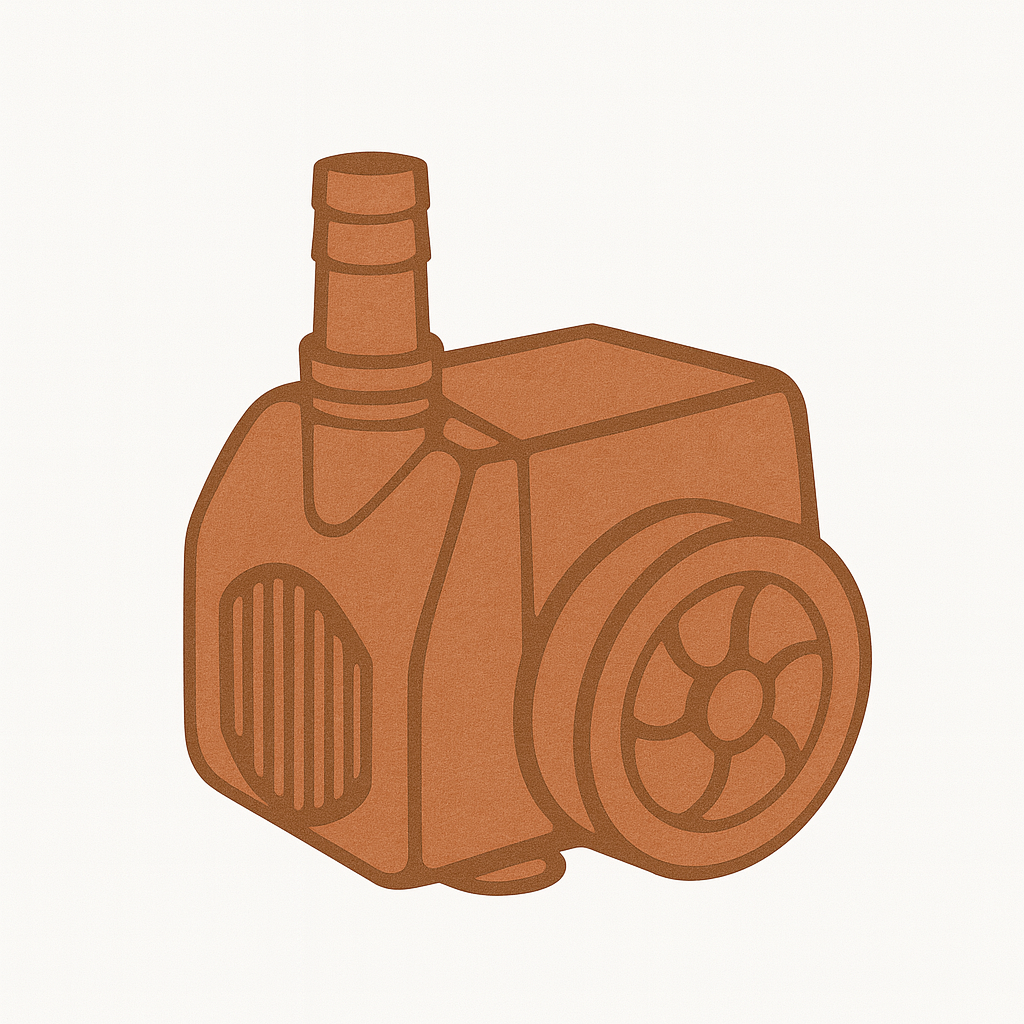
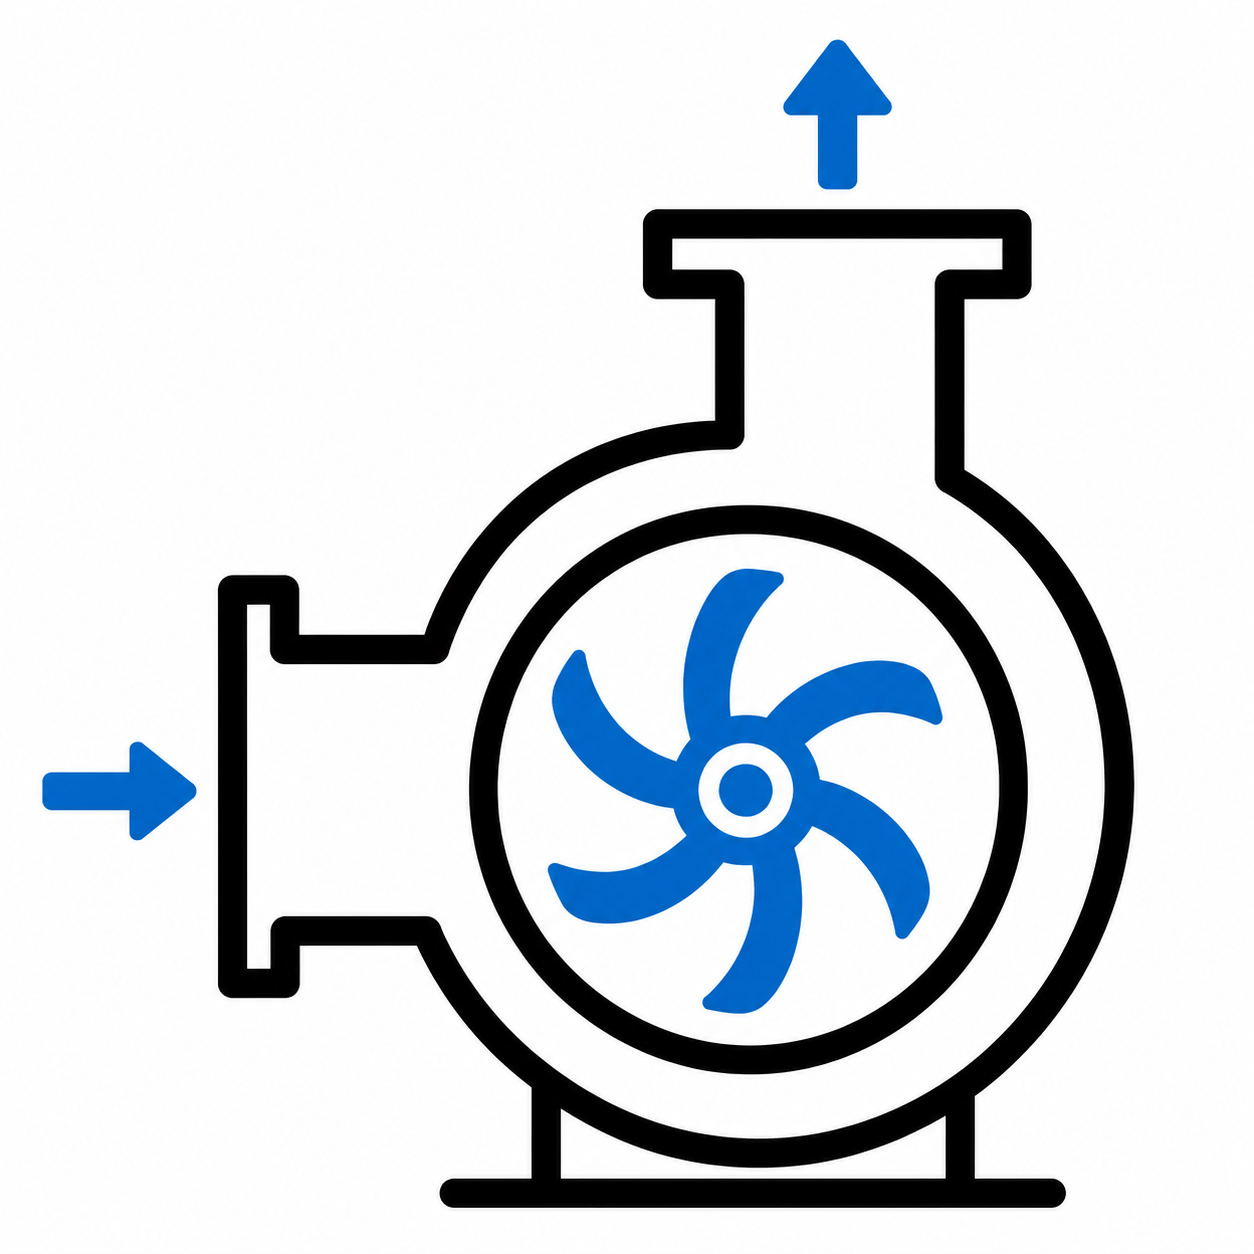
Gestion remplissage au niveau + correction bug (le retour ack provoque data à 0) Weemos: Meilleur timeout de sleep

diff --git a/gateway/src/jard_oyas_mqtt_mgr.py b/gateway/src/jard_oyas_mqtt_mgr.py
@@ -8,7 +8,7 @@ import datetime
 import threading
 
 DEBUG_CYCLE=False
-DEBUG_MQTT=False
+DEBUG_MQTT=True
 
 class RdApp:
     TMT = 5
@@ -62,15 +62,21 @@ class RdApp:
         else:
             return True if res=='1' else False
 
-    def get_mod_var_int(self,nmod,nvar):
+    def get_mod_var_int(self,nmod,nvar,defaut=None):
         res=self.get_mod_var(nmod,nvar)
-        if res==None or res.isnumeric()==False:
-            return 0
+        if res==None: 
+            return defaut
         else:
-            return int(res)
+            try:
+                return int(res)
+            except:
+                return 0
 
     def set_mod_var_bool(self,nmod,nvar,val,tmt=None):
         self.set_mod_var(nmod,nvar,1 if val==True else 0,tmt)
+
+    def set_mod_var_int(self,nmod,nvar,val,tmt=None):
+        self.set_mod_var(nmod,nvar,val,tmt)
 
     def del_mod_var(self,nmod,nvar):
         k=self.kModVar(nmod,nvar)
@@ -122,7 +128,7 @@ class RdOyasSrv(RdApp):
             p.delete(k)
         p.execute()
 
-        self.set_app_var('alive',1)
+        self.set_app_var_bool('alive',True,10)
         #self.set_app_var('on',1,None)
 
         self.r.delete('%s.modules' % (self.kApp()))
@@ -144,7 +150,6 @@ class RdOyasSrv(RdApp):
             self.set_mod_var(name,key,data[key],None)
         else:
             self.del_mod_var(name,key)
-
             
     def update_slave_var_bool(self,name,addr,data,key):
         
@@ -158,6 +163,25 @@ class RdOyasSrv(RdApp):
             self.set_slave_var(name,addr,key,data[key],None)
         else:
             self.del_slave_var(name,addr,key)
+
+    def send_mod_ack(self,name_module):
+        js={'req':'ack'}
+        self.client.publish("/oyas/cmd/%s" % name_module,json.dumps(js).encode('ASCII'))
+
+    def send_mod_config(self,name_module,slaves,bigs):
+        js={'req':'setcfg'}
+        if slaves!=None:
+            js['slaves']=slaves;
+        if bigs!=None:
+            js['slaves']=bigs;
+        
+        self.client.publish("/oyas/cmd/%s" % name_module,json.dumps(js).encode('ASCII'))
+
+    def send_mod_cmds(self,name_module,cmds,ctrl,stop_highs=None):
+        js={'req':'cmds','cmds':cmds,'ctrl':ctrl}
+        if stop_highs!=None:
+            js["highs"]=stop_highs
+        self.client.publish("/oyas/cmd/%s" % name_module,json.dumps(js).encode('ASCII'))
 
     def update_data(self,name,data):
         self.set_mod_var(name,'name',name,None)
@@ -191,7 +215,9 @@ class RdOyasSrv(RdApp):
                 js=json.loads(str(msg.payload,'ascii'))
                 self.update_data(name,js)
                 if DEBUG_MQTT==True:
-                    print('-> Recv %s' % (name))                    
+                    print('-> Recv %s' % (name))
+                
+                #self.send_mod_ack(name)
                 
                 if name not in list(self.modules):
                     try:
@@ -203,29 +229,50 @@ class RdOyasSrv(RdApp):
                     except Exception as ex:
                         print(ex)
 
+                self.send_mod_config_ifneeded(name)
+
             except Exception as e:
                 if DEBUG_MQTT==True:
                     print('Message incorrect: %s' % e)
                 pass
 
-            #sleep=self.get_app_var_bool('sleep')
-            #if sleep==True and self.get_mod_var_bool(name,'sleep')==False:
-            #    print('Envoi sleep a %s' % (name))
-            #    self.client.publish("/oyas/cmd/%s" % name,"sleep");
-            #    self.set_mod_var_bool(name,'sleep',True,3000)
 
-    def sync(self):
-        print('Demarrage du Thread de synchro/requete...')
-        while True:
-            time.sleep(1)
-            on=self.get_app_var_bool('on')
-            if on==True:
-                print('SYNC...')
-                for n in self.modules:
-                    print(n)
-                    req={'req':'cmds','cmds':0,'ctrl':'0'}
-                    msg=json.dumps(req)
-                    self.client.publish(f'/oyas/cmd/{n}',msg)            
+    #def sync(self):
+    #    print('Demarrage du Thread de synchro/requete...')
+    #    while True:
+    #        time.sleep(1)
+    #        on=self.get_app_var_bool('on')
+    #        if on==True:
+    #            print('SYNC...')
+    #            for n in self.modules:
+    #                print(n)
+    #                req={'req':'cmds','cmds':0,'ctrl':'0'}
+    #                msg=json.dumps(req)
+    #                self.client.publish(f'/oyas/cmd/{n}',msg)            
+
+    def send_mod_config_ifneeded(self,name_module):
+        on=self.get_app_var_bool('on')
+        if on!=True:
+            return;
+
+        new_slaves=self.get_mod_var_int(name_module,'to_slaves')
+        if new_slaves!=None:
+            slaves=self.get_mod_var_int(name_module,'slaves')
+            if slaves!=new_slaves:
+                print(f'Envoi de la configuration des esclaves de {name_module}: {slaves:04X} -> {new_slaves:04X}')
+                js={'req':'setcfg','slaves':new_slaves}
+                self.client.publish("/oyas/cmd/%s" % name_module,json.dumps(js).encode('ASCII'))
+                self.set_mod_var_int(name_module,'slaves',new_slaves)
+
+        new_bigs=self.get_mod_var_int(name_module,'to_bigs')
+        if new_bigs!=None:
+            bigs=self.get_mod_var_int(name_module,'bigs')
+            if bigs!=new_bigs:
+                print(f'Envoi de la configuration des gros oyas à {name_module}: {bigs:04X} -> {new_bigs:04X}')
+                js={'req':'setcfg','bigs':new_bigs}
+                self.client.publish("/oyas/cmd/%s" % name_module,json.dumps(js).encode('ASCII'))
+                self.set_mod_var_int(name_module,'bigs',new_bigs)
+
 
     def start(self):
         oldOn=False
@@ -238,14 +285,15 @@ class RdOyasSrv(RdApp):
 
         self.client.loop_start()
 
-        th = threading.Thread(target=self.sync)
-        th.start()
+        #th = threading.Thread(target=self.sync)
+        #th.start()
 
         #self.modules.add('barbec')
         self.set_app_var('on',0,None)
         print('Start program...');
         while True:
             time.sleep(1)
+            self.set_app_var_bool('alive',True,10)
 
             on=self.get_app_var_bool('on')
             if on==None:
@@ -262,20 +310,27 @@ class RdOyasSrv(RdApp):
             if DEBUG_CYCLE==True:
                 print('_'*40)
                 print('Cycle:')
-
+                for n in self.modules:
+                    print(f'  - {n}')
             
             for n in self.modules:
-                new_slaves=self.get_mod_var_int(n,'to_slaves')
-                if new_slaves!=None:
-                    slaves=self.get_mod_var_int(n,'slaves')
-                    if slaves!=new_slaves:
-                        print(f'Envoi de la configuration des esclaves à {n}: {slaves:04X} -> {new_slaves:04X}')
-                        js={'req':'setcfg','slaves':new_slaves}
-                        self.client.publish("/oyas/cmd/%s" % n,)
-                        self.set_mod_var_int(n,'slaves',new_slaves)
-            
-            
-            time.sleep(1)
+                to_cmds=self.get_mod_var_int(n,'to_cmds')
+                if to_cmds==None:
+                    to_cmds=0
+
+                stop_highs=None
+                to_filling=self.get_mod_var_int(n,'to_filling')
+                if to_filling!=None:
+                    stop_highs=to_filling&0xFFFE;
+                    to_cmds=to_filling;
+
+                self.send_mod_cmds(n,to_cmds,True,stop_highs)
+                
+                #js={'req':'cmds','cmds':to_cmds,'ctrl':True}
+                #if stop_highs!=None:
+                #    js["highs"]=stop_highs                    
+                #self.client.publish("/oyas/cmd/%s" % n,json.dumps(js).encode('ASCII'))
+
 ##                
 ##                v=self.get_mod_var(n,'to_cmd')
 ##                if v!=None and v=='1':

diff --git a/gateway/src/jardWS.py b/gateway/src/jardWS.py
@@ -161,6 +161,59 @@ def get_oyas():
     js=oyasCln.getJson()
     return js
 
[email redacted]('/oyas/modules/<name>/do/on', methods=['GET'])
+def oyas_module_do_on(name):
+    if oyasCln.hasModule(name)==False:
+        abort(404)
+
+    duree=request.args.get('duration')
+    if duree==None or not duree.isnumeric() or int(duree)>3600:
+        duree=30*60
+    else:
+        duree=int(duree,10)
+        
+    oyasCln.setOn(name,True,duree)
+    
+    return {'result':True,'msg':'Maître Oya %s ON.' % name}
+
[email redacted]('/oyas/modules/<name>/do/off', methods=['GET'])
+def oyas_module_do_off(name):
+    if oyasCln.hasModule(name)==False:
+        abort(404)
+        
+    oyasCln.setOn(name,False,None)
+    
+    return {'result':True,'msg':'Maître Oya %s OFF.' % name}
+
[email redacted]('/oyas/modules/<name>/do/cmds', methods=['GET'])
+def oyas_do_cmds(name):
+    if oyasCln.hasModule(name)==False:
+        abort(404)
+        
+    if oyasCln.get_mod_var_bool(name,"on")==True:
+        try:
+            cmds=int(request.args.get('cmds'))
+            oyasCln.setCmds(name,cmds)
+            return {'result':True,'msg':'Commandes sur le Maître Oya %s: %04x.' % (name,cmds)}
+        except Exception as ex:
+            return {'result':True,'msg':'Parametre incorrect ou erreur commandes sur le Maître Oya %s: %04x.' % (name,cmds)}
+    else:
+        return {'result':True,'msg':'Impossible: Le Maître des OYA %s est OFF.' % name}
+
[email redacted]('/oyas/modules/<name>/do/filling', methods=['GET'])
+def oyas_do_filling(name):
+    if oyasCln.hasModule(name)==False:
+        abort(404)
+        
+    if oyasCln.get_mod_var_bool(name,"on")==True:
+        try:
+            addr=int(request.args.get('addr'))            
+            oyasCln.setFilling(name,addr)
+            return {'result':True,'msg':'Demande remplissage de %s/%x.' % (name,addr)}
+        except Exception as ex:
+            return {'result':True,'msg':'Parametre incorrect ou erreur demande remplissage sur le Maître Oya %s.' % name}
+    else:
+        return {'result':True,'msg':'Impossible: Le Maître des OYA %s est OFF.' % name}
 
 if __name__=='__main__':
     app.debug = True

diff --git a/gateway/src/jard_oyas_client.py b/gateway/src/jard_oyas_client.py
@@ -91,17 +91,22 @@ class RdOyasClient(RdApp):
     def __init__(self,ip,port=6379):
         super(RdOyasClient,self).__init__(ip,port)
 
-    def setOn(self,flgOn,tm=None):
-        if (flgOn==True):
-            self.setSleep(False)
-            
-        self.set_app_var_bool('on',flgOn,tm)
+    def setOn(self,mname,flgOn,tm=None):            
+        self.set_mod_var_bool(mname,'on',flgOn,tm)
 
-    #def setSleep(self,flgSleep):
-    #    self.set_app_var_bool('sleep',flgSleep,None)        
+    def setCmds(self,mname,cmds,tm=10):
+        self.set_mod_var(mname,'to_cmds',cmds,tm)
+        self.set_mod_var(mname,'to_filling',0,None)
 
-    def setCmd(self,mname,flgOn,tm=None):
-        self.set_mod_var(mname,'to_cmd',1 if flgOn==True else 0,tm)
+    def setFilling(self,mname,addr_to_fill,pump=True,tm=60):
+        self.set_mod_var(mname,'to_cmds',0,None)
+
+        if addr_to_fill>1 and addr_to_fill<15:
+            to_filling=1<<addr_to_fill
+            if pump==True:
+                to_filling|=0x01
+
+            self.set_mod_var(mname,'to_filling',to_filling,tm)
 
     def hasModule(self,name):
         res=self.r.smembers('%s.modules' % (self.kApp()))
@@ -113,25 +118,25 @@ class RdOyasClient(RdApp):
         return False
 
     def getModuleJson(self,name):
-
-        slaves=self.get_mod_var_int(name,'slaves')
-        comms=self.get_mod_var_int(name,'comms')
-        cmds=self.get_mod_var_int(name,'cmds')
-        ons=self.get_mod_var_int(name,'ons')
-        lows=self.get_mod_var_int(name,'lows')
-        highs=self.get_mod_var_int(name,'highs')
-        bigs=self.get_mod_var_int(name,'bigs')
+        slaves=self.get_mod_var_int(name,'slaves',0)
+        comms=self.get_mod_var_int(name,'comms',0)
+        cmds=self.get_mod_var_int(name,'cmds',0)
+        ons=self.get_mod_var_int(name,'ons',0)
+        lows=self.get_mod_var_int(name,'lows',0)
+        highs=self.get_mod_var_int(name,'highs',0)
+        bigs=self.get_mod_var_int(name,'bigs',0)
         date=self.get_mod_var(name,'date')
         date_mqtt=self.get_mod_var(name,'date_mqtt')
             
         mod={
             'name':name,
-            'slaves':self.get_mod_var_int(name,'slaves'),
-            'cmds':self.get_mod_var_int(name,'cmds'),
-            'ons':self.get_mod_var_int(name,'ons'),
-            'comms':self.get_mod_var_int(name,'comms'),
-            'lows':self.get_mod_var_int(name,'lows'),
-            'highs':self.get_mod_var_int(name,'highs'),
+            'slaves':slaves,
+            'cmds':cmds,
+            'ons':ons,
+            'comms':comms,
+            'lows':lows,
+            'highs':highs,
+			'bigs':bigs,
             'date_mqtt':self.get_mod_var(name,'date_mqtt'),
             'date':self.get_mod_var(name,'date'),
             'slaves':[]
@@ -163,7 +168,6 @@ class RdOyasClient(RdApp):
         ret={
             'on': self.get_app_var_bool('on'),
             'alive': self.get_app_var_bool('alive'),
-            #'sleep': self.get_app_var_bool('sleep'),
             'modules':{}
             }
         

diff --git a/gateway/src/jard_wemos_mqtt_mgr.py b/gateway/src/jard_wemos_mqtt_mgr.py
@@ -89,6 +89,8 @@ class RdApp:
         
 
 class RdWiioSrv(RdApp):
+    OFFLINE_AFTER_SLEEP_TIMEOUT_S=4000
+
     def __init__(self,ip,port=6379):
         super(RdWiioSrv,self).__init__(ip,port)
 
@@ -168,10 +170,12 @@ class RdWiioSrv(RdApp):
                 pass
 
             sleep=self.get_app_var_bool('sleep')
-            if sleep==True and self.get_mod_var_bool(name,'sleep')==False:
-                print('Envoi sleep a %s' % (name))
-                self.client.publish("/wifiio/cmd/%s" % name,"sleep");
-                self.set_mod_var_bool(name,'sleep',True,3600)
+            if sleep==True:
+                if self.get_mod_var_bool(name,'sleep')==False:
+                    print('Envoi sleep a %s' % (name))
+                    self.client.publish("/wifiio/cmd/%s" % name,"sleep");
+                
+                self.set_mod_var_bool(name,'sleep',True,RdWiioSrv.OFFLINE_AFTER_SLEEP_TIMEOUT_S)
 
     def start(self):
         oldOn=False
@@ -216,6 +220,7 @@ class RdWiioSrv(RdApp):
             for n in modules:
                 if slp==True:
                     self.client.publish("/wifiio/cmd/%s" % n,"sleep");
+                    self.set_mod_var_bool(n,'sleep',True,RdWiioSrv.OFFLINE_AFTER_SLEEP_TIMEOUT_S)
                     continue
                 
                 mod_sleep=self.get_mod_var_bool(n,'sleep')